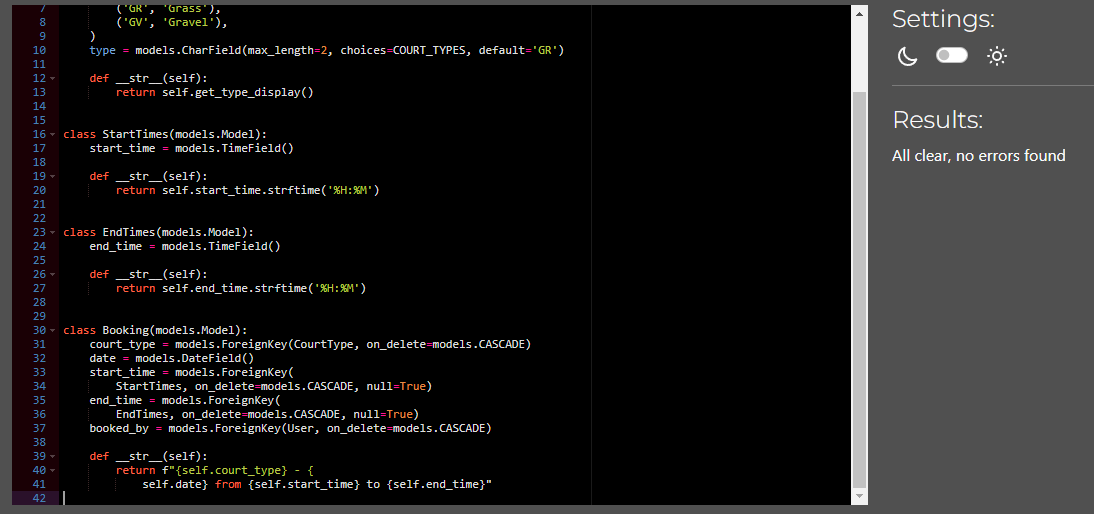
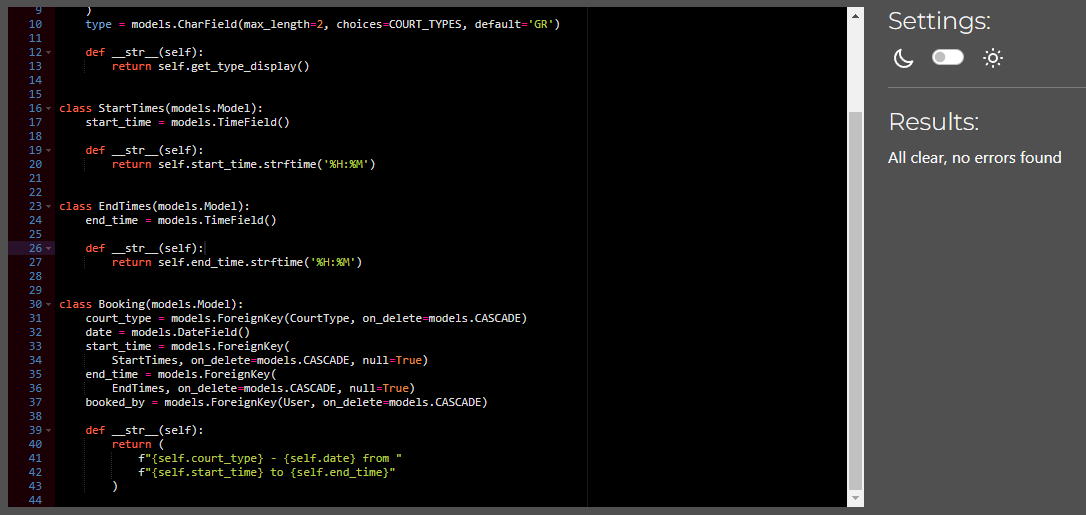
Test: Manual test on home page
Did a throughly manual test on the home page and
tested all links that are visual on the home page
with good result, just som small changes to the
signup.html to make that page work.

Changed region(s): [[0.0, 0.0, 0.9116, 0.9961], [0.7597, 0.1556, 1.0, 0.9961], [0.8204, 0.0934, 0.942, 0.1245]]

diff --git a/templates/account/signup.html b/templates/account/signup.html
@@ -1,19 +1,17 @@
 {% extends "base.html" %}
 
-{% block head_title %}{% trans "Signup" %}{% endblock %}
-
 {% block content %}
 <div class="container no-margin-left signup-body blue-border white-background-2 fullview-small">
   <div class="row">
     <div class="col content-text">
-      <h3 class="nav-font">{% trans "Sign Up" %}</h3>
+      <h3 class="nav-font darkblue">Sign Up</h3>
       <hr class="text-separator">
-      <p>{% blocktrans %}
+      <p>
         Welcome back to the Racket Club<br>
         Do you already have an account?<br>Then please
         <a class="link" href="{{ login_url }}">sign in</a>
         instead.
-      {% endblocktrans %}</p>
+      </p>
     </div>
   </div>
   <div class="row">
@@ -27,7 +25,7 @@
           value="{{ redirect_field_value }}" />
         {% endif %}
         <button class="btn btn-signup blue-border right" type="submit">
-          {% trans "Sign Up" %} </button>
+          Sign Up</button>
       </form>
     </div>
   </div>

diff --git a/templates/base.html b/templates/base.html
@@ -80,7 +80,7 @@
     <!-- navigation bar for bigger screens -->
     <div class="big-screens-nav text-center">
       <div class="col-md-1 big-nav darkblue no-gutters">
-        <a href="#">
+        <a href="{% url 'index' %}">
         <img src="{% static 'images/logo.png' %}" alt="logo" class="logo">
         </a>
         <ul class="nav flex-column">

diff --git a/bookings/models.py b/bookings/models.py
@@ -37,5 +37,7 @@ class Booking(models.Model):
     booked_by = models.ForeignKey(User, on_delete=models.CASCADE)
 
     def __str__(self):
-        return f"{self.court_type} - {
-            self.date} from {self.start_time} to {self.end_time}"
+        return (
+            f"{self.court_type} - {self.date} from "
+            f"{self.start_time} to {self.end_time}"
+        )

diff --git a/racketclub/settings.py b/racketclub/settings.py
@@ -28,7 +28,7 @@ TEMPLATES_DIR = os.path.join(BASE_DIR, 'templates')
 SECRET_KEY = os.environ.get('SECRET_KEY')
 
 # SECURITY WARNING: don't run with debug turned on in production!
-DEBUG = False
+DEBUG = True
 
 X_FRAME_OPTIONS = 'SAMEORIGIN'
 

diff --git a/TESTING.md b/TESTING.md
@@ -1,4 +1,15 @@
+[Validation](#validation)
+*   [CSS and JS](#css-and-js)
+*   [HTML files](#html-files)
+*   [Python files](#python-files)
+
+[Manual testing](#manual-testing)<br>
+[Resources](#resources)
+
+
 # Validation
+
+### CSS and JS
 
 <details>
 <summary>CSS File</summary>
@@ -18,7 +29,7 @@ Since the js-file are loaded into the base.html the jshint found a problem that 
 Since the code for bootstrap modal 'deleteModal' are in the article_detail.html there seems to be a confusing problem for the jshint.
 </details>
 
-### Html files
+### HTML files
 <details>
 <summary>Screenshot results for all templates</summary>
 <br>
@@ -43,7 +54,7 @@ Since the code for bootstrap modal 'deleteModal' are in the article_detail.html 
 <h2>Sign up page</h2>
 <img src="readme/testing/html10.png"><br>
 Here it seems to be some error with the generated tags in signup.html
-Can´t find where I can change this and as visualised in the image below, all elements seems to be there.
+Can´t find where I can change this and as shown in the image below, all elements seems to be there.
 <img src="readme/testing/html11.png"><br>
 <h2>Log in profile page</h2>
 <img src="readme/testing/html12.png"><br>
@@ -116,6 +127,21 @@ Screenshots from CI Python Linter validation
 <img src="readme/testing/linter17.png"><br>
 </details>
 
+# Manual testing
+
+### Home page
+| Feature | Expected Outcome | Testing Performed | Result | Pass/Fail |
+| --- | --- | --- | --- | --- |
+| Navigate to the booking system | When clicking on "Book our court" a page with the rules will show | Clicked on "Book our court" | A page with rules and a button with "Book Now" was shown | Pass |
+| Navigate to About us | When clicking on "About us" a page with the information about the club will show | Clicked on "About us" | A page with information about the club was shown | Pass |
+| Navigate to the contact form | When clicking on "Contact us" a page with a contact form will show | Clicked on "Contact us" | A page with a contact form was shown | Pass |
+| Navigate to an article by clicking on a image | When clicking on an image in a article card, that specific article will show | Clicked on an image within an article card | That specific article was shown | Pass |
+| Navigate to an article by clicking on a title | When clicking on a title in a article card, that specific article will show | Clicked on a title within an article card | That specific article was shown | Pass |
+| Navigate to an article by clicking on a slice text | When clicking on a slice text in a article card, that specific article will show | Clicked on a slice text within an article card | That specific article was shown | Pass |
+| See more articles by clicking on the "Next"-button | When clicking on the "Next"-button, more articles will be shown | Clicked on the "Next"-button | More articles was shown | Pass |
+| See more articles by clicking on the "Prev"-button | When clicking on the "Prev"-button, articles on the previous page will be shown | Clicked on the "Prev"-button | The previous article page was shown | Pass |
+| Navigate to the sign up form | When clicking on "Signup" in the profile menu, a sign up form to create a user will be shown | Clicked on "Signup" in the profile menu | A sign up form to create a user was shown | Pass |
+| Navigate to the log in page | When clicking on "Login" in the profile menu, a login page will be shown | Clicked on "Login" in the profile menu | A login page was shown | Pass |
 
 # Resources
 [W3C css validator](https://jigsaw.w3.org/css-validator/validator)<br>
